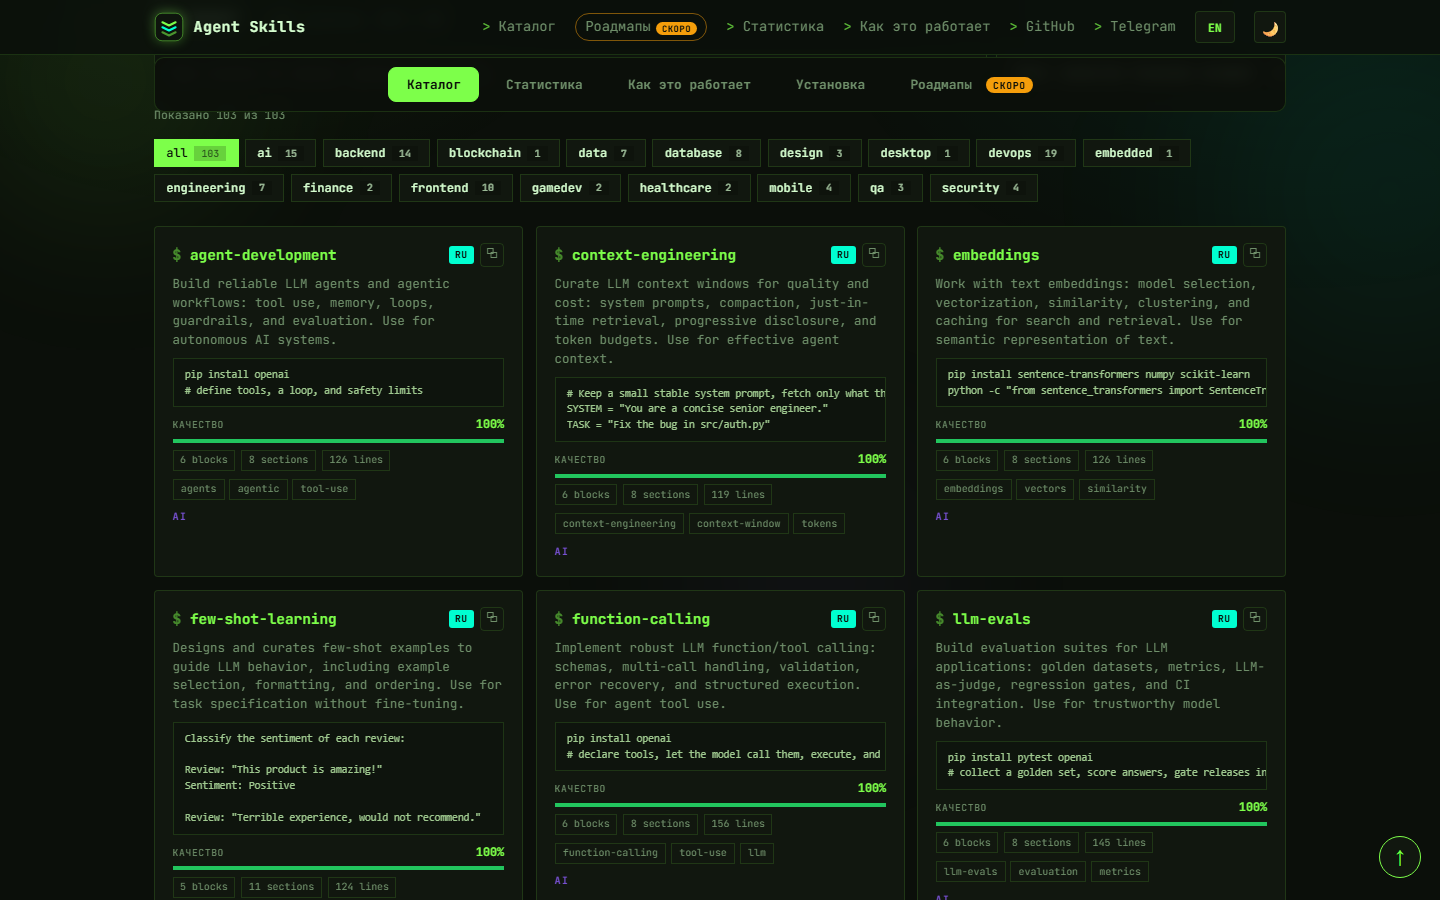
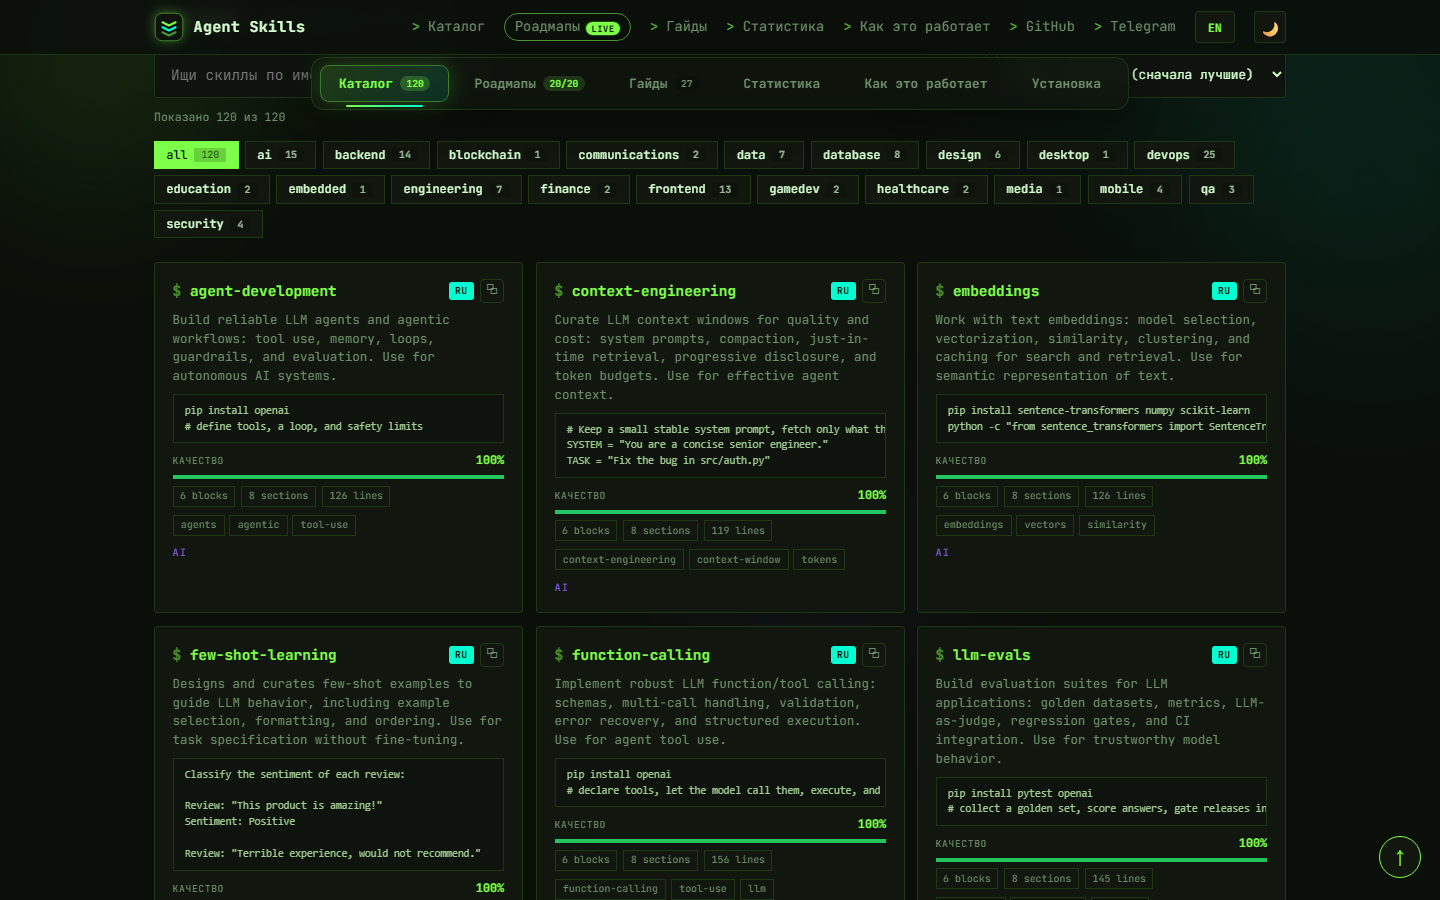
content: WATIX rebrand, 120 skills, tippy down again (10 sites)

diff --git a/index.html b/index.html
@@ -290,7 +290,7 @@ h2{font-size:clamp(30px,4.3vw,46px);line-height:1.04;letter-spacing:-.045em;font
         <a class="btn" href="https://t.me/ssrjkk_bot" target="_blank" rel="noopener">Каталог в Telegram</a>
       </div>
       <div class="stats">
-        <div class="stat"><b>11</b><span>живых сайтов,<br>включая хаб</span></div>
+        <div class="stat"><b>10</b><span>живых сайтов,<br>включая хаб</span></div>
         <div class="stat"><b>391</b><span>товаров в магазине<br>shopwatch</span></div>
         <div class="stat"><b>66</b><span>tools в MCP-сервере<br>raven</span></div>
         <div class="stat"><b>5</b><span>Telegram-ботов<br>в работе</span></div>
@@ -311,7 +311,7 @@ h2{font-size:clamp(30px,4.3vw,46px);line-height:1.04;letter-spacing:-.045em;font
       <div class="projects">
         <article class="card card--featured">
           <a class="shot" href="https://ssrjkk.github.io/shopwatch/" target="_blank" rel="noopener" aria-label="Открыть магазин shopwatch">
-            <img src="assets/shopwatch.png" alt="OneWatch: витрина часового магазина, каталог на 391 модель" loading="eager">
+            <img src="assets/shopwatch.png" alt="WATIX: витрина часового магазина, каталог на 391 модель" loading="eager">
             <span class="badge live">live</span>
           </a>
           <div class="card-body">
@@ -319,7 +319,7 @@ h2{font-size:clamp(30px,4.3vw,46px);line-height:1.04;letter-spacing:-.045em;font
               <h3>shopwatch</h3>
               <span class="mono">e-commerce</span>
             </div>
-            <p>Часовой магазин OneWatch на 391 модель: каталог с поиском, фильтры, корзина и оформление. Заказ уходит из Deep Link в Telegram- или MAX-бота. Каталог выгружается в WooCommerce, OpenCart и PrestaShop.</p>
+            <p>Часовой магазин WATIX на 391 модель: каталог с поиском, фильтры, корзина и оформление. Заказ уходит из Deep Link в Telegram- или MAX-бота. Каталог выгружается в WooCommerce, OpenCart и PrestaShop.</p>
             <ul class="tags">
               <li>JavaScript</li><li>Node.js</li><li>TG / MAX bots</li><li>GitHub Pages</li>
             </ul>
@@ -376,7 +376,6 @@ h2{font-size:clamp(30px,4.3vw,46px);line-height:1.04;letter-spacing:-.045em;font
             <p>USDC-экономика в Telegram: чаевые, донат-страницы, рынки предсказаний на LMSR и кабинет в Mini App.</p>
             <ul class="tags"><li>Python</li><li>aiogram</li><li>Base / USDC</li><li>Mini App</li></ul>
             <a class="card-link" href="https://t.me/tippy_on_base_bot" target="_blank" rel="noopener">Открыть бота <span aria-hidden="true">↗</span></a>
-            <a class="card-link" href="https://tippy-egi.pages.dev" target="_blank" rel="noopener">Открыть сайт <span aria-hidden="true">↗</span></a>
           </div>
         </article>
 
@@ -439,7 +438,7 @@ h2{font-size:clamp(30px,4.3vw,46px);line-height:1.04;letter-spacing:-.045em;font
           </a>
           <div class="card-body">
             <div class="card-top"><h3>agent-skills</h3><span class="mono">AI tooling</span></div>
-            <p>Библиотека навыков для AI-агентов: 103 навыка на EN и RU, Python SDK, CLI и живой каталог.</p>
+            <p>Библиотека навыков для AI-агентов: 120 навыков на EN и RU, Python SDK, CLI и живой каталог.</p>
             <ul class="tags"><li>Python</li><li>CLI / SDK</li><li>MCP</li><li>EN + RU</li></ul>
             <a class="card-link" href="https://ssrjkk.github.io/agent-skills/" target="_blank" rel="noopener">Открыть каталог <span aria-hidden="true">↗</span></a>
           </div>
@@ -520,7 +519,7 @@ h2{font-size:clamp(30px,4.3vw,46px);line-height:1.04;letter-spacing:-.045em;font
           <span class="mono">catalogue →</span>
         </a>
         <a class="more-row" href="https://t.me/wwwatchshop_bot" target="_blank" rel="noopener">
-          <div><b>@wwwatchshop_bot</b><p>Заказы магазина OneWatch: состав корзины приходит из витрины по deep link, заявка создаётся в боте.</p></div>
+          <div><b>@wwwatchshop_bot</b><p>Заказы магазина WATIX: состав корзины приходит из витрины по deep link, заявка создаётся в боте.</p></div>
           <span class="mono">shop →</span>
         </a>
         <a class="more-row" href="https://t.me/waketrade_bot" target="_blank" rel="noopener">
@@ -551,7 +550,6 @@ h2{font-size:clamp(30px,4.3vw,46px);line-height:1.04;letter-spacing:-.045em;font
             <li><a href="https://ssrjkk.github.io/harvest/">harvest</a><span>тестнеты</span></li>
             <li><a href="https://ssrjkk.github.io/shroud/">shroud</a><span>FHE</span></li>
             <li><a href="https://ssrjkk.github.io/agent-skills/">agent-skills</a><span>каталог</span></li>
-            <li><a href="https://tippy-egi.pages.dev">tippy</a><span>платежи</span></li>
           </ul>
         </div>
         <div class="link-box">
